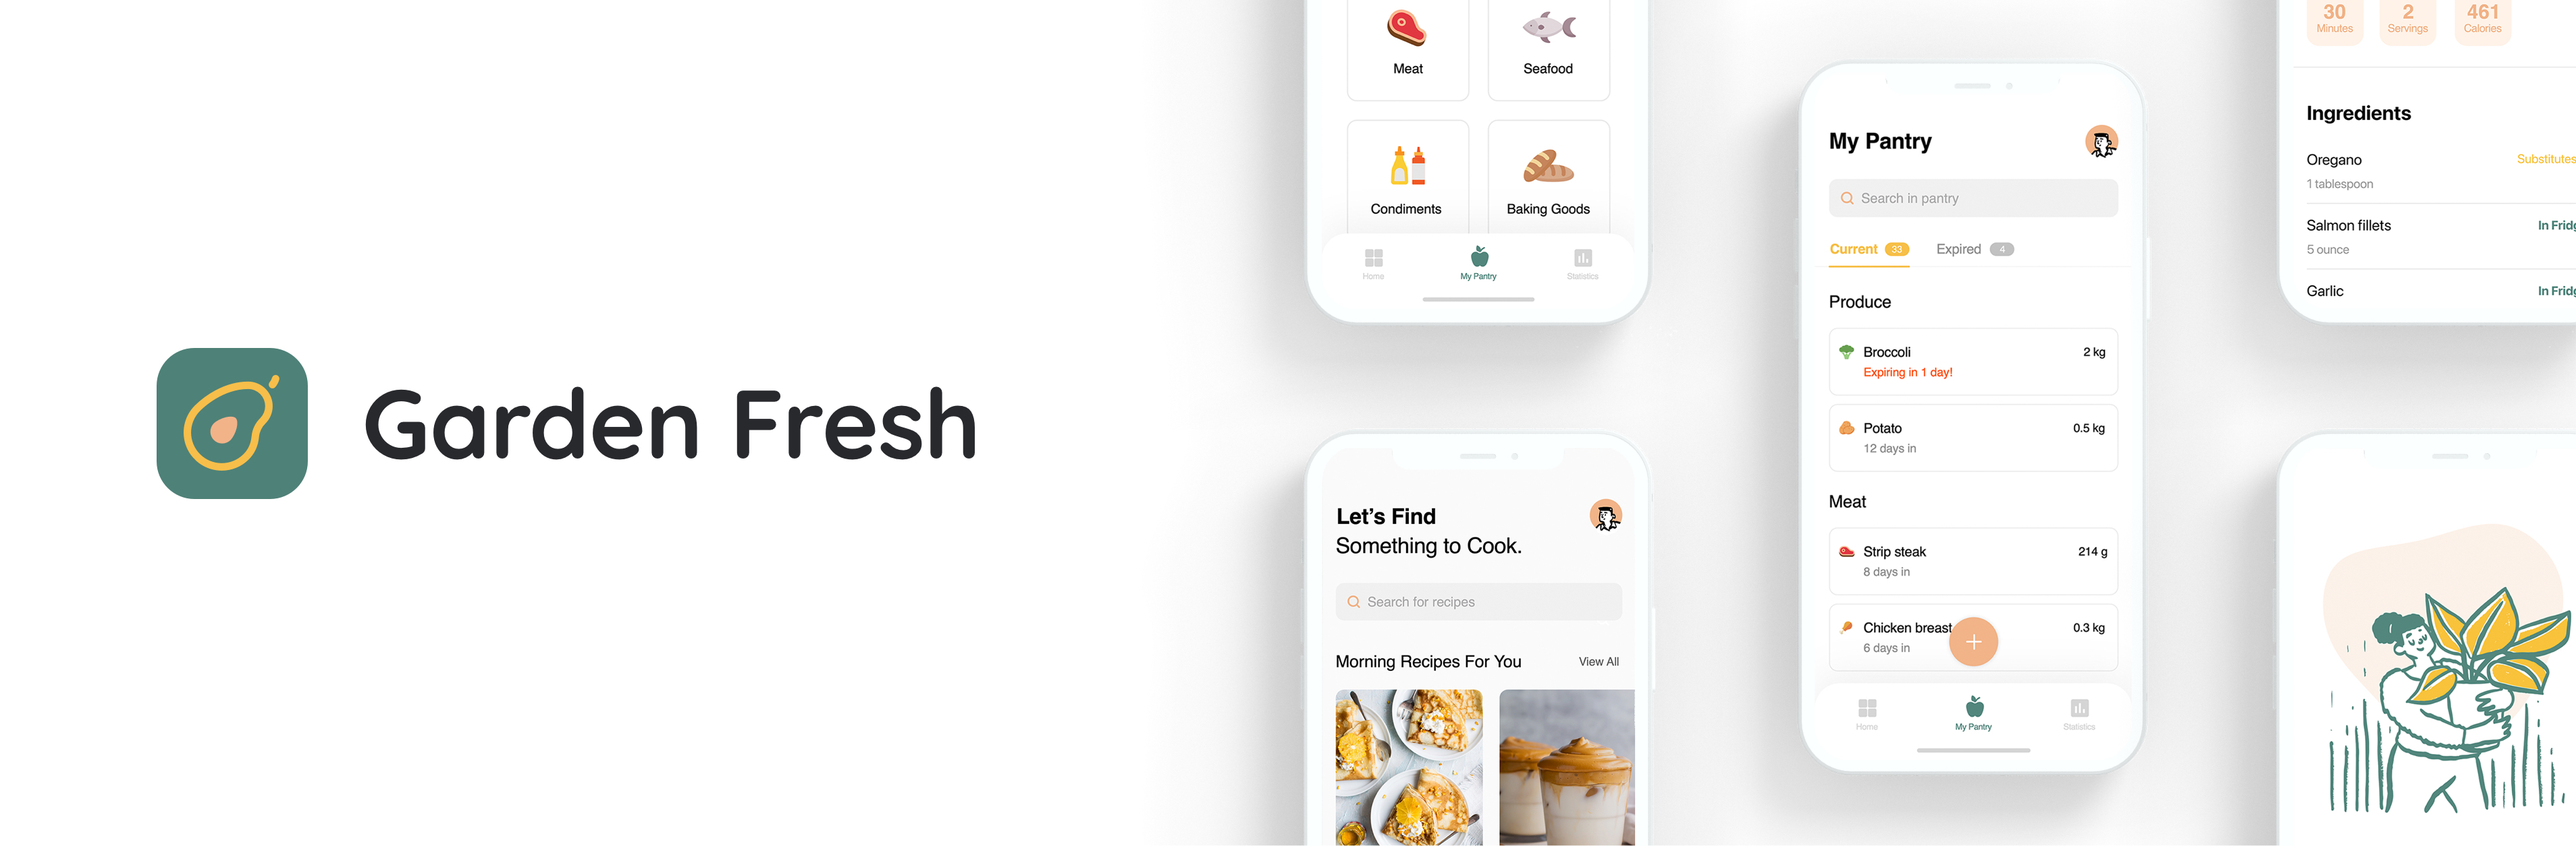
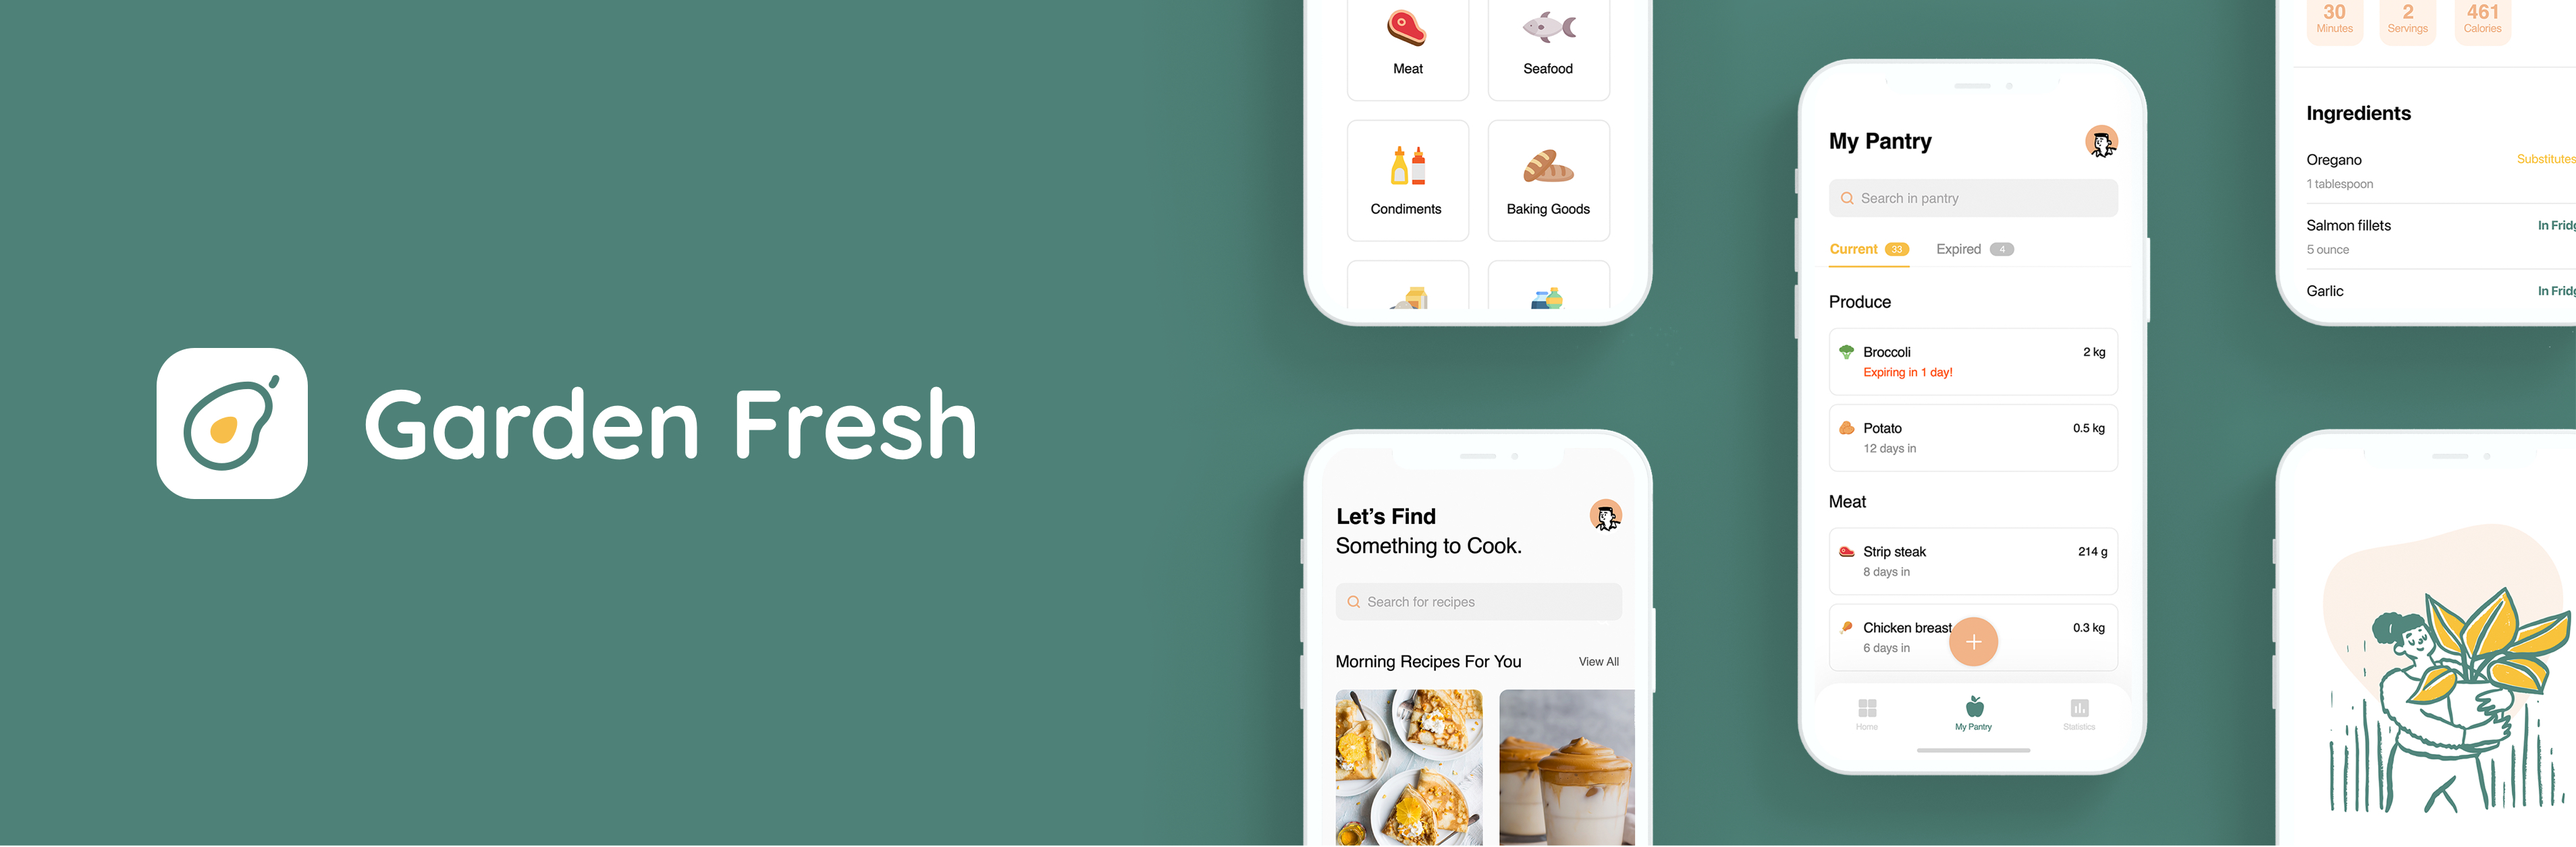
garden fresh

diff --git a/proj-garden.html b/proj-garden.html
@@ -80,7 +80,7 @@
             </div>
             <div>
               <div class="proj-info-title">Tools Used</div>
-              <div class="proj-info-content">Adobe XD, Sketch, Miro, InVision</div>
+              <div class="proj-info-content">Adobe XD, Sketch, Photoshop, Miro, InVision</div>
             </div>
           </div>
         </div>
@@ -90,7 +90,7 @@
 
     <!-- HEADER -->
     <div class="proj-header">
-      <img src="assets/img/gf-banner-2.jpg" />
+      <img src="assets/img/gf-banner.jpg" />
     </div>
 
     <!-- SEC 01 Food waste issue -->
@@ -522,33 +522,26 @@
             <div class="spacing-50"></div>
 
             <!-- section 01  -->
-            <div class="small-header">Login</div>
+            <div class="small-header">My Pantry</div>
             <div class="spacing-10"></div>
-            <div class="img-650">
-              <img src="assets/img/splash@2x.jpg" />
-            </div>
-            <div class="spacing-50"></div>
-
-            <!-- section 01  -->
-            <div class="small-header">Pantry</div>
-            <div class="spacing-10"></div>
-            <div class="img-650">
-              <img src="assets/img/splash@2x.jpg" />
+            <div class="img-800">
+              <img src="assets/img/hifi-2.png" />
             </div>
             <div class="spacing-50"></div>
 
             <!-- section 01  -->
             <div class="small-header">Recipes</div>
             <div class="spacing-10"></div>
-            <div class="img-650">
-              <img src="assets/img/splash@2x.jpg" />
+            <div class="img-800">
+              <img src="assets/img/hifi-3.png" />
             </div>
             <div class="spacing-50"></div>
-            <div>
+
+          <!--   <div>
               <a href="https://xd.adobe.com/view/1ee4c19a-a09e-4930-5e06-16862fab4d2b-68d5/" class="proj-link">
                 Click to see interactive prototype
               </a>
-            </div>
+            </div> -->
 
           </div>
         </div>
